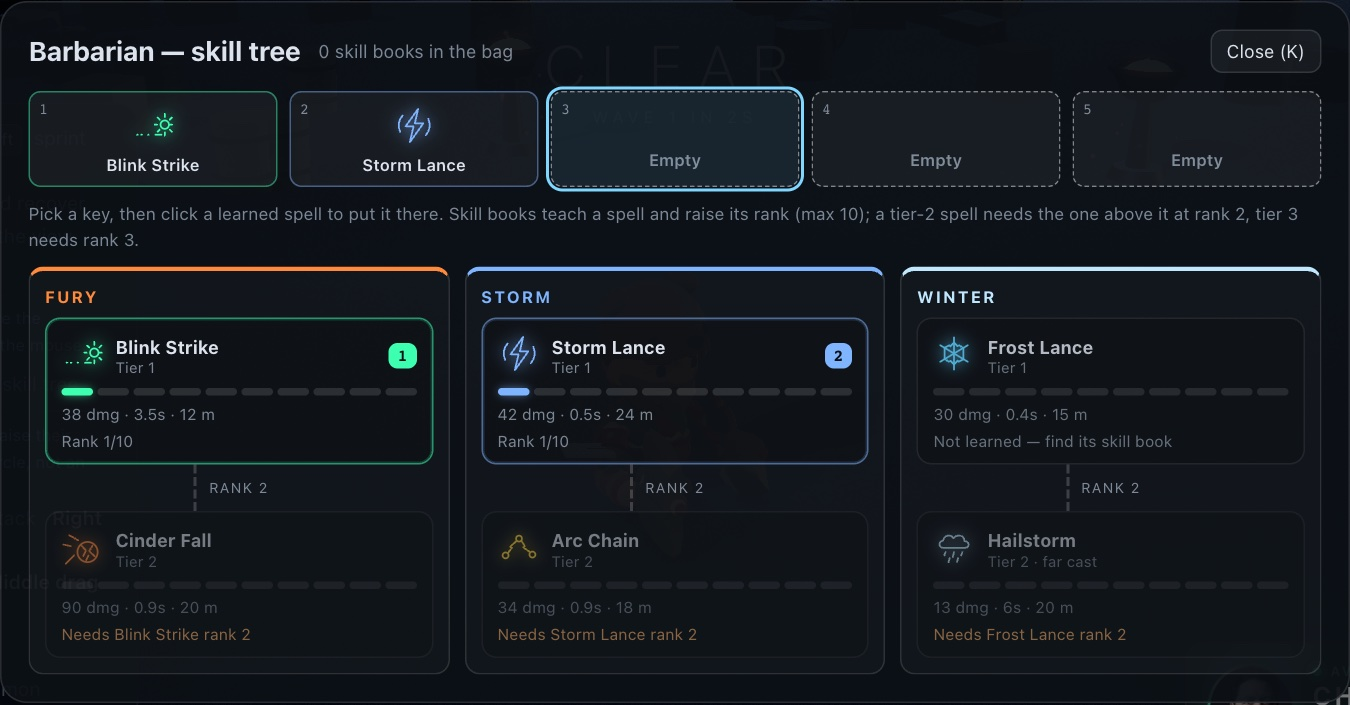
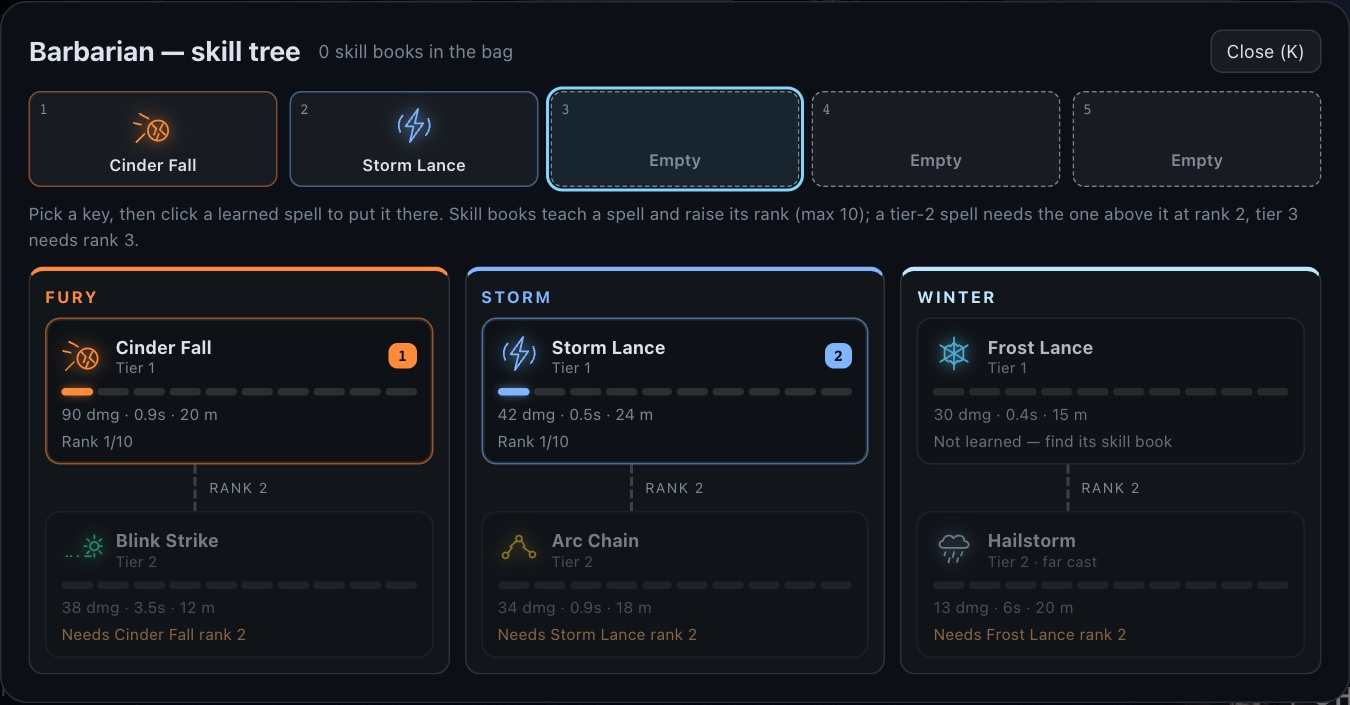
Barbarian starts with Cinder Fall; make the skill tree panel solid
The Barbarian's Fury branch is now Cinder Fall -> Blink Strike, so its
+20% Cinder Fall bonus is there from the start. Saved characters always
get their class's current starting spells (on a free key), so existing
Barbarians gain Cinder Fall and keep everything else.

The skill tree panel is fully opaque: wave banners no longer show
through it.

diff --git a/src/items/Profile.js b/src/items/Profile.js
@@ -71,7 +71,18 @@ export class Profile extends EventEmitter {
 
   /** Make sure a class has a progress record, starting spells on keys. */
   _ensure(classId) {
-    if (this.progress[classId]) return this.progress[classId];
+    const existing = this.progress[classId];
+    if (existing) {
+      // A class's starting spells can change between versions; a saved
+      // character always knows its class's current ones.
+      for (const el of treeFor(classId).start) {
+        if (existing.ranks[el] > 0) continue;
+        existing.ranks[el] = 1;
+        const free = existing.slots.indexOf(null);
+        if (free >= 0) existing.slots[free] = el;
+      }
+      return existing;
+    }
     const ranks = startingRanks(classId);
     for (const el of treeSpells(classId)) {
       const old = this._legacyRanks?.[el] ?? 0;

diff --git a/src/platform/skill/tree.js b/src/platform/skill/tree.js
@@ -44,9 +44,9 @@ export const CLASS_TREES = {
     ]
   },
   barbarian: {
-    start: ['blink', 'thunder'],
+    start: ['meteor', 'thunder'],
     branches: [
-      { id: 'fury', label: 'Fury', accent: '#ff8a3c', spells: ['blink', 'meteor'] },
+      { id: 'fury', label: 'Fury', accent: '#ff8a3c', spells: ['meteor', 'blink'] },
       { id: 'storm', label: 'Storm', accent: '#7fb4ff', spells: ['thunder', 'chain'] },
       { id: 'winter', label: 'Winter', accent: '#bfe8ff', spells: ['ice', 'hail'] }
     ]

diff --git a/src/ui/editor.css b/src/ui/editor.css
@@ -1055,7 +1055,8 @@ body.is-editor .hud > :not(.editor):not(.story):not(.world-labels) {
   flex-direction: column;
   gap: 12px;
   padding: 18px;
-  background: var(--ui-bg-solid);
+  /* Fully opaque: wave banners and the HUD must not show through the tree. */
+  background: #0c1016;
   border: 1px solid var(--ui-border);
   border-radius: calc(var(--ui-radius) + 4px);
   box-shadow: var(--ui-shadow);

diff --git a/docs/classes-and-skills.md b/docs/classes-and-skills.md
@@ -56,14 +56,14 @@ starts knowing two tier-1 spells. The rest come from **skill books**:
 
 <p>
   <img src="screenshots/skill-tree-mage.jpg" width="49%" alt="The Mage's skill tree on a new character: Frost, Storm and Arcane branches, three tiers each; Frost Lance and Storm Lance learned on keys 1 and 2" />
-  <img src="screenshots/skill-tree-barbarian.jpg" width="49%" alt="The Barbarian's skill tree on a new character: Fury, Storm and Winter branches, two tiers each; Blink Strike and Storm Lance learned on keys 1 and 2" />
+  <img src="screenshots/skill-tree-barbarian.jpg" width="49%" alt="The Barbarian's skill tree on a new character: Fury, Storm and Winter branches, two tiers each; Cinder Fall and Storm Lance learned on keys 1 and 2" />
 </p>
 
 | Class | Starts with | Branches (tier 1 → 2 → 3) |
 | --- | --- | --- |
 | 🛡 Knight | Frost Lance, Blink Strike | Bulwark: Frost Lance → Glacial Crown · Charge: Blink Strike → Nova Beam · Thunder: Storm Lance → Arc Chain |
 | ✦ Mage | Frost Lance, Storm Lance | Frost: Frost Lance → Hailstorm → Glacial Crown · Storm: Storm Lance → Arc Chain → Voltaic Snare · Arcane: Void Orb → Nova Beam → Cinder Fall |
-| 🪓 Barbarian | Blink Strike, Storm Lance | Fury: Blink Strike → Cinder Fall · Storm: Storm Lance → Arc Chain · Winter: Frost Lance → Hailstorm |
+| 🪓 Barbarian | Cinder Fall, Storm Lance | Fury: Cinder Fall → Blink Strike · Storm: Storm Lance → Arc Chain · Winter: Frost Lance → Hailstorm |
 | 🏹 Amazon | Storm Lance, Frost Lance | Storm: Storm Lance → Arc Chain → Hailstorm · Hunt: Frost Lance → Voltaic Snare · Swift: Blink Strike → Nova Beam |
 | 🗡 Shadowblade | Blink Strike, Void Orb | Shadow: Blink Strike → Voltaic Snare · Void: Void Orb → Arc Chain · Frost: Frost Lance → Hailstorm |
 | ✚ Templar | Void Orb, Storm Lance | Light: Void Orb → Nova Beam → Cinder Fall · Storm: Storm Lance → Arc Chain · Oath: Frost Lance → Glacial Crown |
